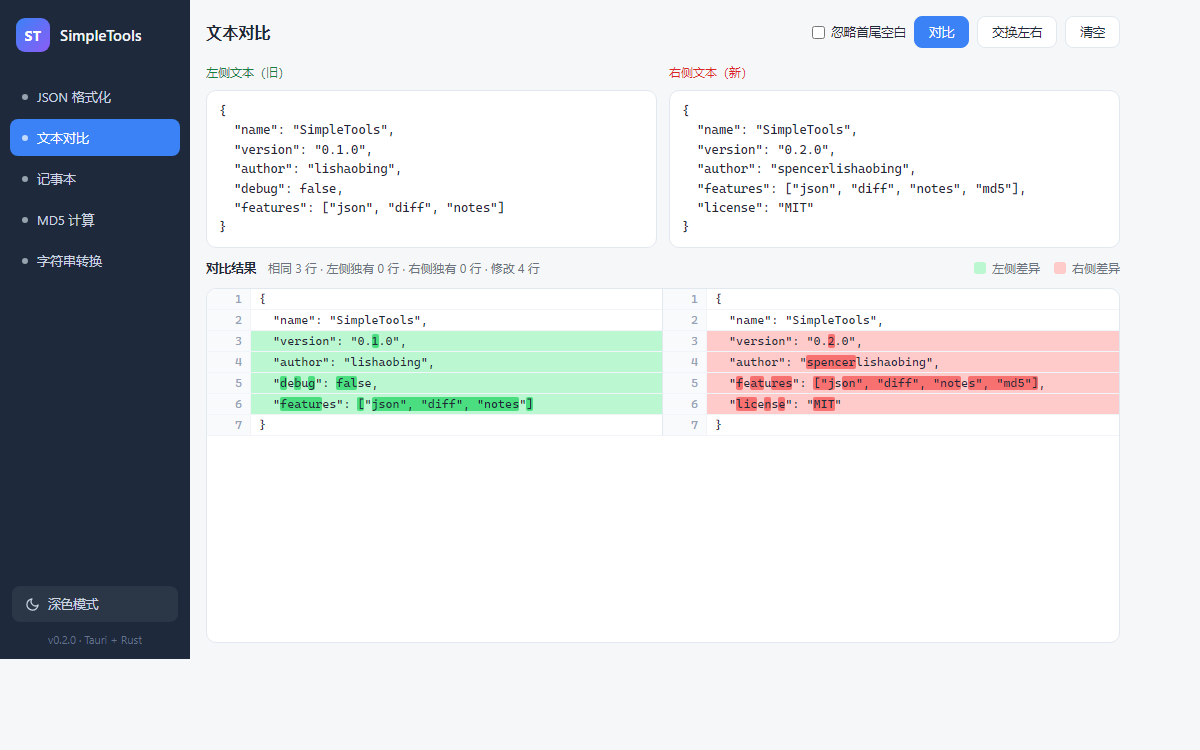
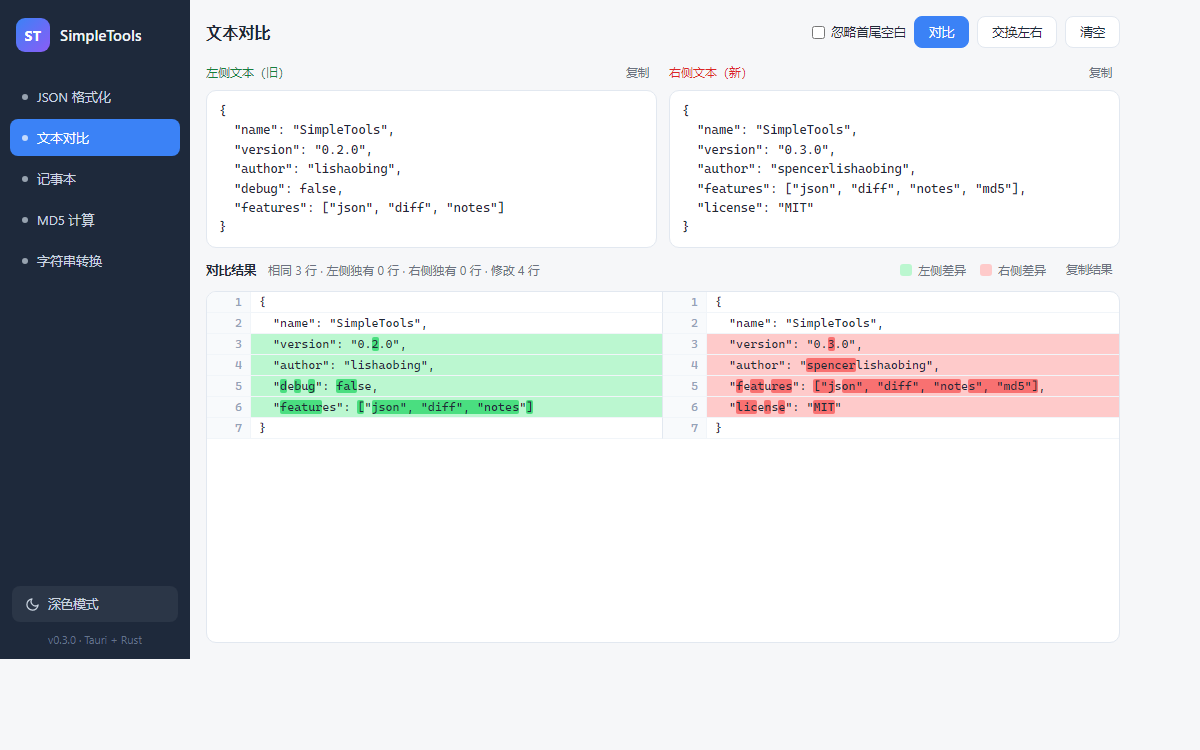
feat: v0.3.0 文本对比支持复制（左右文本 + 对比结果）
- 左侧 / 右侧文本一键复制（pane-label 复制按钮）

- 对比结果一键复制：完整文本 + 差异行 - / + 标记

- 版本升级 0.2.0 -> 0.3.0；README 与截图同步更新

diff --git a/src/modules/text-diff.js b/src/modules/text-diff.js
@@ -8,6 +8,8 @@
   const statsEl = document.getElementById('diff-stats');
   const ignoreWs = document.getElementById('diff-ignore-space');
 
+  let resultText = ''; // 最近一次对比的纯文本形式（供复制）
+
   const MAX_MATRIX = 4_000_000;   // 行级 DP 规模上限（n*m）
   const MAX_CHAR_MATRIX = 250_000; // 行内字符 DP 规模上限
   const SIM_THRESHOLD = 0.25;      // 判定为"修改行"的最低相似度
@@ -274,6 +276,7 @@
 
   function renderResult(paireOps, aRaw, bRaw) {
     const rows = [];
+    const textLines = [];
     let sameCount = 0;
     let delCount = 0;
     let insCount = 0;
@@ -282,6 +285,7 @@
     for (const op of paireOps) {
       if (op.type === 'same') {
         sameCount++;
+        textLines.push(aRaw[op.li]);
         rows.push(
           '<div class="diff-row">' +
           cellHtml('left', '', op.li + 1, aRaw[op.li], false) +
@@ -290,6 +294,7 @@
         );
       } else if (op.type === 'del') {
         delCount++;
+        textLines.push('- ' + aRaw[op.li]);
         rows.push(
           '<div class="diff-row">' +
           cellHtml('left', 'del', op.li + 1, aRaw[op.li], false) +
@@ -298,6 +303,7 @@
         );
       } else if (op.type === 'ins') {
         insCount++;
+        textLines.push('+ ' + bRaw[op.ri]);
         rows.push(
           '<div class="diff-row">' +
           cellHtml('left', 'placeholder', '', null, false) +
@@ -306,6 +312,8 @@
         );
       } else {
         modCount++;
+        textLines.push('- ' + aRaw[op.del.li]);
+        textLines.push('+ ' + bRaw[op.ins.ri]);
         const { left, right } = segsToHtmlPair(diffChars(aRaw[op.del.li], bRaw[op.ins.ri]));
         rows.push(
           '<div class="diff-row">' +
@@ -316,6 +324,7 @@
       }
     }
 
+    resultText = textLines.join('\n');
     resultEl.innerHTML = '<div class="diff-table">' + rows.join('') + '</div>';
     statsEl.textContent =
       '相同 ' + sameCount + ' 行 · 左侧独有 ' + delCount +
@@ -344,6 +353,7 @@
     const paired = pairModified(ops, aKeys, bKeys);
 
     if (paired.length === 0) {
+      resultText = '';
       resultEl.innerHTML = '<div class="diff-empty">两段文本都为空</div>';
       statsEl.textContent = '';
       return;
@@ -364,9 +374,36 @@
   document.getElementById('diff-clear').addEventListener('click', () => {
     leftEl.value = '';
     rightEl.value = '';
+    resultText = '';
     statsEl.textContent = '';
     resultEl.innerHTML =
       '<div class="diff-empty">在上方输入两段文本后点击"对比"，差异处左侧显示绿色、右侧显示红色</div>';
+  });
+
+  // ---------- 复制 ----------
+
+  document.getElementById('diff-copy-left').addEventListener('click', async () => {
+    if (!leftEl.value) {
+      window.toast('左侧文本为空');
+      return;
+    }
+    await window.copyText(leftEl.value, '已复制左侧文本');
+  });
+
+  document.getElementById('diff-copy-right').addEventListener('click', async () => {
+    if (!rightEl.value) {
+      window.toast('右侧文本为空');
+      return;
+    }
+    await window.copyText(rightEl.value, '已复制右侧文本');
+  });
+
+  document.getElementById('diff-copy-result').addEventListener('click', async () => {
+    if (!resultText) {
+      window.toast('暂无对比结果');
+      return;
+    }
+    await window.copyText(resultText, '已复制对比结果');
   });
 
   // 快捷键：Ctrl+Enter 触发对比

diff --git a/src/index.html b/src/index.html
@@ -59,7 +59,7 @@
         </svg>
         <span id="theme-label">深色模式</span>
       </button>
-      <div class="version">v0.2.0 · Tauri + Rust</div>
+      <div class="version">v0.3.0 · Tauri + Rust</div>
     </div>
   </aside>
 
@@ -117,11 +117,15 @@
       </header>
       <div class="diff-inputs">
         <div class="split-pane">
-          <div class="pane-label label-left">左侧文本（旧）</div>
+          <div class="pane-label label-left"><span>左侧文本（旧）</span>
+            <button class="pane-copy" id="diff-copy-left" title="复制左侧文本">复制</button>
+          </div>
           <textarea id="diff-left" spellcheck="false" placeholder="输入或粘贴左侧文本..."></textarea>
         </div>
         <div class="split-pane">
-          <div class="pane-label label-right">右侧文本（新）</div>
+          <div class="pane-label label-right"><span>右侧文本（新）</span>
+            <button class="pane-copy" id="diff-copy-right" title="复制右侧文本">复制</button>
+          </div>
           <textarea id="diff-right" spellcheck="false" placeholder="输入或粘贴右侧文本..."></textarea>
         </div>
       </div>
@@ -132,6 +136,8 @@
           <i class="swatch swatch-green"></i>左侧差异
           <i class="swatch swatch-red"></i>右侧差异
         </span>
+        <button class="pane-copy" id="diff-copy-result"
+          title="复制对比结果（相同行原样，差异行以 - 左侧 / + 右侧标记）">复制结果</button>
       </div>
       <div id="diff-result" class="diff-result">
         <div class="diff-empty">在上方输入两段文本后点击"对比"，差异处左侧显示绿色、右侧显示红色</div>

diff --git a/README.md b/README.md
@@ -13,7 +13,7 @@
 
 ### 文本对比（左侧绿色 / 右侧红色）
 
-按行 + 字符级对比，差异处左侧绿色、右侧红色标记，带行号与差异统计。
+按行 + 字符级对比，差异处左侧绿色、右侧红色标记，带行号与差异统计；左侧文本、右侧文本与对比结果均支持一键复制（结果输出完整文本，差异行以 `-` / `+` 标记）。
 
 ![文本对比](screenshots/diff.png)
 
@@ -44,7 +44,7 @@
 ## 功能支持
 
 - [x] **JSON 格式化** —— 格式化 / 压缩；自动去转义（默认开启、可选）；2 / 4 空格或 Tab 缩进；输入输出一键复制；`Ctrl+Enter` 快捷格式化
-- [x] **文本对比** —— 行级 + 字符级差异高亮（左侧绿、右侧红）；忽略首尾空白选项；交换左右 / 清空；`Ctrl+Enter` 快捷对比
+- [x] **文本对比** —— 行级 + 字符级差异高亮（左侧绿、右侧红）；左右文本与对比结果一键复制（结果含 `-` / `+` 差异标记）；忽略首尾空白选项；交换左右 / 清空；`Ctrl+Enter` 快捷对比
 - [x] **记事本** —— 左列表右详情；标题 + 正文；本地缓存自动保存（原子写入防损坏）；`Ctrl+N` 新建；列表拖动排序；删除弹窗确认；复制正文；数据备份
 - [x] **MD5 计算** —— 字符串实时计算（UTF-8）；文件点击选择或拖入计算（1 MB 分块流式，不占内存）；小写 / 大写 / Base64 三种输出格式；一键复制
 - [x] **字符串转换** —— 输入即生成 8 种格式：全大写 / 全小写 / 首字母大写 / 驼峰（camelCase）/ 大驼峰（PascalCase）/ 下划线（snake_case）/ 中划线（kebab-case）/ 常量（CONSTANT_CASE）；自动识别下划线、中划线、空格、点分隔与已有驼峰；多行按行转换；逐行一键复制
@@ -68,7 +68,7 @@ npm run build
 
 构建产物：
 
-- 安装包：`src-tauri/target/release/bundle/nsis/SimpleTools_0.2.0_x64-setup.exe`
+- 安装包：`src-tauri/target/release/bundle/nsis/SimpleTools_0.3.0_x64-setup.exe`
 - 免安装单文件：`src-tauri/target/release/SimpleTools.exe`
 
 > 首次构建约需几分钟（Rust 编译）；前端为静态资源，修改 `src/` 后需重新执行 `npm run build` 才生效。
@@ -126,6 +126,10 @@ SimpleTools/
 ```
 
 ## 更新日志
+
+### v0.3.0（2026-10-11）
+
+- 文本对比面板支持复制：左侧文本、右侧文本、对比结果均可一键复制（对比结果输出为完整文本，差异行以 `- ` / `+ ` 标记）
 
 ### v0.2.0（2026-10-11）
 
